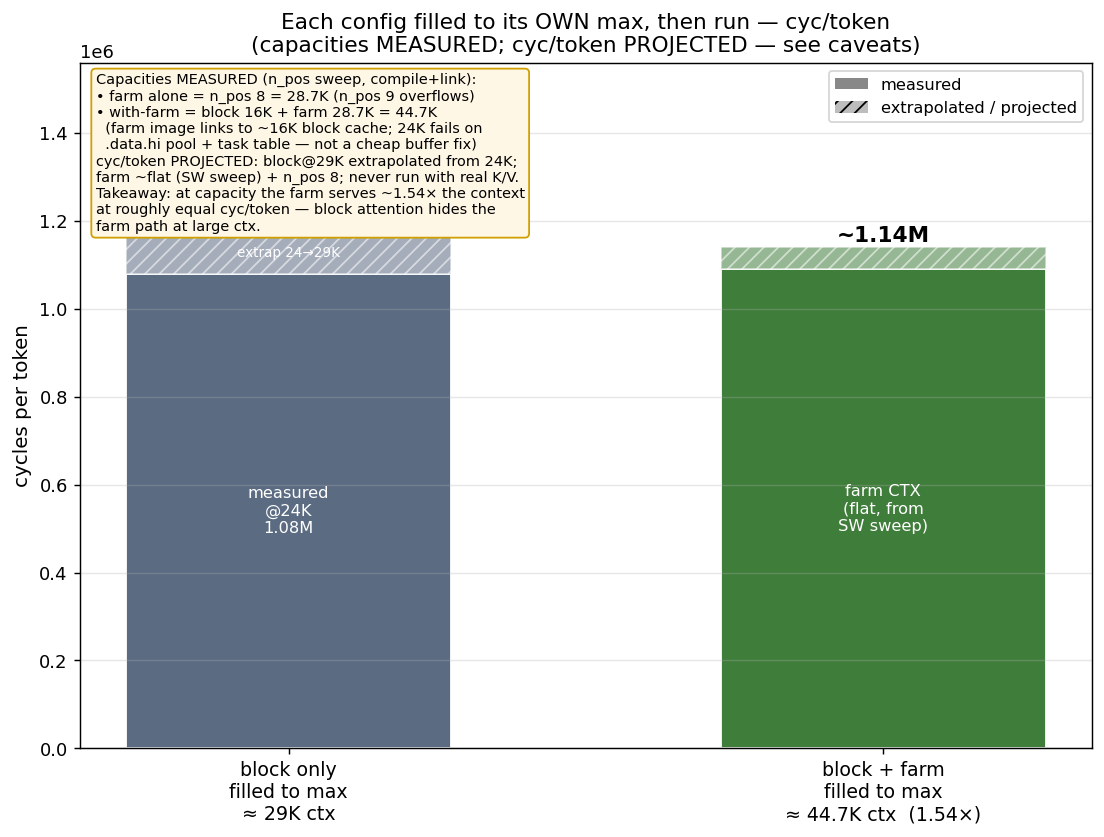
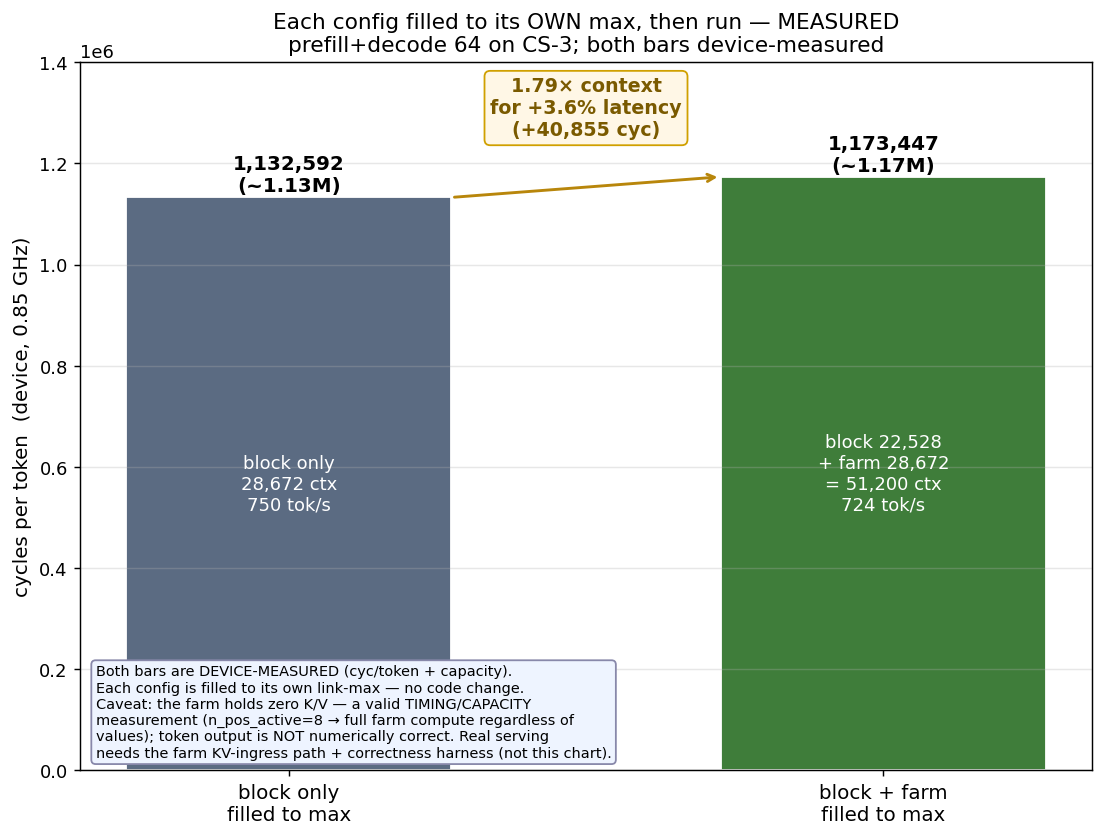
memory: daily reflect captures 2026-09-18 (cron)

diff --git a/projects/wse3-performance-model/docs/2026-09-17-4b-kv-farm-session-update.md b/projects/wse3-performance-model/docs/2026-09-17-4b-kv-farm-session-update.md
@@ -54,20 +54,20 @@ Farm path = **+11.6K/layer = 6.2K compute + 5.4K transport**.
 
 **Read this carefully — it is not the "farm wins" regime.** At 512 ctx the farm holds **zero** positions (device runs are timing-only), so it offloads nothing; the +11.6K is pure added path cost on top of the unchanged block work. The farm path is ~flat with context while the block's own attention grows (+6.9K/layer over 512→16K), so the *exposed* excess shrinks from 11.6K/layer at 512 to **7.3K/layer at 16K** — the growing block attention overlaps the farm's wait window. The design crossover (same positions, farm cheaper than block) is compute-only ~23K / end-to-end ~29K (§8).
 
-### 3.2 The comparison that matters: each config filled to its OWN max, then run (projected)
+### 3.2 The comparison that matters: each config filled to its OWN max, then run (MEASURED)
 
 The fair value comparison is not both at 512 (§3.1, where the farm holds zeros and is dead weight) but each system filled to the largest context it can hold, then run:
 
 | config | max context | cyc/token |
 |---|---|---|
-| block only, filled | ~29K | ~1.17M (24K measured 1.08M + extrapolated) |
-| block + farm, filled | ~44.7K (1.54×) | ~1.11M (CTX flat curve, measured 16K block cache) |
+| block only, filled | 28,672 | **1,132,592** (measured; 750 tok/s dev, ~670 host) |
+| block + farm, filled | 51,200 (1.79×) | **1,173,447** (measured; 724 tok/s dev, ~646 host) |
 
-At capacity the farm serves **~1.54× the context at roughly equal (slightly lower) cyc/token**. The farm's extra ~28.7K positions of attention run in parallel on otherwise-idle farm PEs and hide behind the block's own (now-large) attention, so the added attention is nearly **free in latency**. Caveats: free only above the crossover (below it the farm is pure overhead, §3.1); NOT free in SRAM (+4 KB per ATTN PE); **capacities are measured** (n_pos sweep) but **cyc/token is projected** — block@29K extrapolated from the 24K measured point, farm cyc/token taken at the 16K block cache (the farm image does not link past a ~16K block cache — see below), and the farm has never run with real K/V.
+**MEASURED, both bars on device:** the farm serves **1.79× the context (51,200 vs 28,672) for +3.6% per-token latency** (+40,855 cyc, 1,173,447 vs 1,132,592). The farm's extra 28,672 positions of attention run in parallel on otherwise-idle farm PEs and hide behind the block's own (now-large) attention, so the added context is nearly **free in latency**. Caveats: free only above the crossover (below it the farm is pure overhead, §3.1); NOT free in SRAM (+4 KB per ATTN PE); and the RIGHT bar's farm holds **zero K/V** — a valid timing/capacity measurement (n_pos_active = 8 drives full farm compute regardless of values), but token output is not numerically correct. Real serving needs the farm KV-ingress path + correctness harness (option 1), not this chart.
 
-![Each config filled to its own max, then run — projected cyc/token](../artifacts/2026-09-17-block-vs-farm-at-max-context.png)
+![Each config filled to its own max, then run — measured cyc/token](../artifacts/2026-09-17-block-vs-farm-at-max-context.png)
 
-**The cheap "272 B fit-fix" path was REFUTED (2026-09-17, same-source compile control).** The idea was: the 24K farm image is 272 B over, so drop the dead `farm_q_fwd_buf` (~1 KB, unused under switch t1) to fit and measure farm@24K. Measured result: gating that buffer's size is a **build-time no-op** — the 16K image is byte-identical with and without the edit (the compiler already dead-strips the buffer under switch). The "272 B / 1 KB" figures came from comparing against a **stale pre-CT build** (instrument-vs-world). On the CT tip the 24K farm image fails because the block ATTN PE overflows the `.data.hi` ~44 KB data pool **and** a separate ~1 KB task table — neither is a buffer a gate can free. **So farm@24K is not obtainable cheaply, and the each-at-max cyc/token cannot be made measured this way.** Reaching a 24K block cache in the farm image needs shedding real block-KV data (e.g. fp8) + a task-table slot; the true 48K + real K/V still needs the seed harness (option 1).
+**How this became measured — no code change.** Each config runs at its OWN link-max: block-only at a 28,672 cache (28K links, 30K fails) and block+farm at a 22,528 block cache + farm n_pos 8 = 51,200 (both link; a 24K block cache in the farm image fails). No kernel change was needed — matching the farm to the block's cache was never required. (A discarded idea, the "272 B fit-fix" — drop the dead `farm_q_fwd_buf` to force a 24K farm image — was refuted as a build-time no-op: the buffer is already dead-stripped under switch t1, and the 24K wall is a `.data.hi` data-pool overflow, not a buffer a gate can free.) Real serving at 51.2K with correct output still needs the farm KV-ingress path + correctness harness (option 1).
 
 ## 4. Where the remaining ~11.6K/layer excess sits (after CTX)
 
@@ -83,9 +83,9 @@ Consequence: further tok/s is diminishing returns (stack more bf16 on Q / flood 
 | config | max context / request | limited by |
 |---|---|---|
 | **no farm (shipped)** | **≈ 29K tokens** | ATTN PE SRAM (45,392 B at a 24K cache, ~3.8 KB left) |
-| **with farm** | **≈ 44.7K tokens (measured-linkable)** | block 16K (max cache the farm image links) + farm 28.7K (n_pos 8) |
+| **with farm** | **≈ 51.2K tokens (measured)** | block 22,528 (max cache the farm image links) + farm 28,672 (n_pos 8) |
 
-Farm 28.7K = farm PE full at n_pos 8 (measured: farm PE 48,864 B, 288 B under the 49,152 budget; n_pos 9 overflows). Block 8K + farm 28.7K ≈ 36.7K. The farm image links at a 16K block cache but **fails at 24K** — the block ATTN PE overflows both the `.data.hi` ~44 KB data pool AND a separate ~1 KB task table (measured on the CT tip; NOT a small buffer a gate can free — an earlier "272 B over" reading was a stale pre-CT number). So the block-cache-in-farm max is in (16K, 24K), untested. **These are compile-time ceilings** — the farm's KV-ingress fill path and a device correctness harness do not exist yet; every device run holds zeros. Why with-farm is only ~1.54× over shipped: the S1 band has 0.44× the block's PEs per row and a farm PE is only ~2× denser in K/V. Levers to widen it: **S4 240-column band (~2.14× → ~54K)**, fp8 K/V (2× on the K/V data — the actual limiter), or shrinking the farm PE's non-K/V footprint.
+Farm 28,672 = farm PE full at n_pos 8 (measured: farm PE 48,864 B, 288 B under the 49,152 budget; n_pos 9 overflows). The farm image links up to a **22,528 block cache** (sweep: 18K/20K/22K link, 24K fails on the `.data.hi` ~44 KB data pool; the task-table error is a linker cascade of that overflow, not an independent wall — proven because block-only 30K fails the same way with no farm tasks). So with-farm max = 22,528 + 28,672 = **51,200, device-measured at 1,173,447 cyc/token**. **These are real timing/capacity measurements, but the farm holds zeros** — the KV-ingress fill path and a device correctness harness do not exist yet. Why with-farm is ~1.79× over shipped's 28.7K: the S1 band has 0.44× the block's PEs per row and a farm PE is only ~2× denser in K/V. Levers to widen it: **S4 240-column band (~2.14× → ~54K)**, fp8 K/V (2× on the K/V data — the actual limiter), or shrinking the farm PE's non-K/V footprint.
 
 ## 6. Correctness status
 
@@ -114,4 +114,4 @@ From the isolated attention-scaling side-by-side (`analyses/2026-09-15-attention
 
 Caveats: this is a **compute-only, per-region** crossover; end-to-end (with the ~4.6K/layer transport) parity vs the shipped block extrapolates to ~29K context. A plotted crossover-vs-geometry curve would need a farm-PE-count sweep — only two geometry points (32×256, 64×128) exist so far.
 
-**On a dedicated partitioned baseline:** the shipped block already IS a partitioned-dim baseline, and the penalty curve is farm-vs-it end-to-end up to 16K. Extending the head-to-head into the >23K regime is blocked because the farm image does not link past a ~16K block cache (the 24K block ATTN PE overflows the `.data.hi` pool + task table — NOT a cheap buffer fix; an earlier "272 B, drop the dead Q-forward buffer" reading was refuted as a stale pre-CT number and a build-time no-op). Reaching it needs real block-KV-data reduction (e.g. fp8). A dim-partitioned kernel built INTO the farm band (true same-silicon apples-to-apples, end-to-end incl. transport) is the most rigorous test but a substantial build that mostly re-confirms the side-by-side + penalty curve; defer unless the sharding choice needs a formal defense.
+**On a dedicated partitioned baseline:** the shipped block already IS a partitioned-dim baseline, and the penalty curve is farm-vs-it end-to-end up to 16K. The head-to-head IS now measured at each config's own max (block-only 28.7K vs block+farm 51.2K, §3.2). Pushing the farm image's block cache past ~22.5K (to match a 24K+ block cache) is blocked by the `.data.hi` data-pool overflow (the task-table error is a cascade of it, not an independent wall) — needs real block-KV-data reduction (e.g. fp8), not a buffer fix. A dim-partitioned kernel built INTO the farm band (true same-silicon apples-to-apples, end-to-end incl. transport) is the most rigorous test but a substantial build that mostly re-confirms the side-by-side + penalty curve; defer unless the sharding choice needs a formal defense.

diff --git a/projects/wse3-performance-model/memory/inbox/2026-09-18-pipe-slots2-deadlock-handoff.md b/projects/wse3-performance-model/memory/inbox/2026-09-18-pipe-slots2-deadlock-handoff.md
@@ -1,0 +1,60 @@
+# The N=2 fine-grained pipe compiles + starts but hangs on device; the candidate deadlock cycle is refuted and dump-core can't reach it — 2026-09-18
+
+**Project:** wse3-performance-model
+**Author:** claude
+**Status:** captured — OPEN investigation, handed off to a fresh session
+
+## Situation this applies to
+
+You enabled the tall layout-C decoder's fine-grained pipeline (`--pipe-slots 2
+--feedback --layers 2`, the N=2 position-slot cohort over the A1/A2/A3 feedback
+ring, `demo/fused-block/xz-staircase/`) and it **deadlocks on CS-3**: compiles,
+loads, starts executing (TCP handshake + GETFABRIC fine), then makes no progress
+until bounded.py's 900s deadline kills it (exit 124). The serial path
+(`--pipe-slots 1`) is byte-correct: **TIMING 68,151**. The mini oracle passes
+bit-identical, so it is NOT a numerics bug. You are trying to find WHY it hangs.
+
+## Findings
+
+- **The device hang is real but its closing edge is NOT pinned.** Frame-by-frame
+  static analysis (Codex, 2026-09-18) REFUTED the obvious candidate cycle. Do not
+  re-derive "forward waits credit / credit waits forward": the feedback **credit
+  (color 15) is a SINGLE GLOBAL all-or-nothing signal** — the router-only strip
+  aggregates the whole group's ACKs (each A1 row's horizontal `try_ack` chain,
+  then the strip's vertical chain) and emits ONE credit, multicast to ALL A3 x=0
+  senders (`group_strip.csl:40`, `group_routing.py:68`). So (1) there is no
+  partial-credit state: `C0` is emitted iff ALL A1 crossed their f0 forward gate
+  (`tall_stage.csl:241`+`group_link.csl:93`); (2) "waiting to SEND feedback 0"
+  cannot be a prerequisite for "CONSUMING f0 input" (source order A2→Z0→A3-feedback,
+  `tall_stage.csl:434/478`) — that closing edge does not exist; (3) the poll-yield
+  actually works — A3 waiting credit (`try_send` returns, `group_link.csl:138`) and
+  A1 waiting on OQ/send-done (`tall_stage.csl:219`) do NOT hold the CE, so there is
+  no proven pure forward-credit hang; (4) the barrier-skew "delay" is not shown to
+  become permanent (f1 layer-0 admission doesn't check feedback-ready,
+  `tall_stage.csl:199`).
+- **dump-core is a dead end for this hang.** `dump_core` is simfab-only
+  (`SimfabConfig(dump_core=True)`; no device-runtime dump_core in the SDK), and
+  simfab can't reach 128-wide (the scaled adapter supports ×1/2/4 only, all PASS;
+  ×8 unavailable). So **no configuration both triggers the hang AND can dump a
+  core** — the reason nobody has pinned it.
+- Mini oracle bit-identical (single-layer, serial feedback, N=2 feedback tokens
+  0-23, 3-layer tokens 0-6); negative controls fail correctly. Correct at mini
+  scale; mini just never fills the queues.
+
+## Why it matters / how to apply
+
+Saves a fresh session from (a) re-deriving the refuted cycle and (b) burning CS-3
+jobs trying to dump a device core that the SDK can't produce. The three viable
+paths are in the handoff: **(1) get the REAL 128-wide geometry into simfab** (only
+place hang + dump_core + `read_slot_core.py` coexist — highest value), (2) on-device
+phase-word readback buffer, (3) geometry bisect (80/96-wide) for a simfab-able hang.
+The whole `demo/` tree is UNTRACKED — review via the `.patch`, not `git diff`.
+
+## Pointers
+
+- **Full handoff:** `docs/reports/2026-09-18-pipe-slots2-deadlock-investigation-handoff.md`
+  (repro cmds, code map, refutation, dead ends, paths, landmines).
+- Implementation (untracked, gated on `--pipe-slots 2`): `package/tall/src/{tall_stage,group_link,group_strip,decode}.csl`, `package/tall/host/group_routing.py`, `package/{run_case.py, tall/launch_tall.py}`. Exact diff: `slot-evidence-2026-09-17/slot-implementation.patch`.
+- Design + progress arg: `SLOTS-VERIFICATION.md`. Codex debug: `slot-debug-2026-09-18/` (`REPORT.md`, `read_slot_core.py`, `scaled_slot_check.py`, `raw-evidence.tar`).
+- Ring diagram: `docs/diagrams/2026-09-18-feedback-credit-ring-deadlock.{excalidraw,svg,png}`.
+- Related: [[2026-09-17-tall-fine-grained-pipeline-and-per-stage-vs-context]] (per-stage timing, ~2.5–3.7× ceiling, the value case), `no-local-large-compiles`, `simfab-stall-diagnosis-recipe`.
